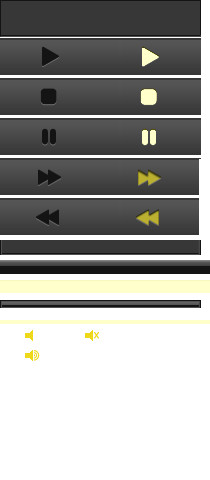
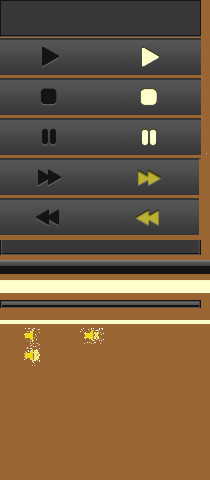
Attempt to make better for mobile

diff --git a/internal/assets/views/podquiz.css b/internal/assets/views/podquiz.css
@@ -82,34 +82,36 @@ $brownbox()
     color: $red
     text-decoration: none
 
-section.social
-  height: 3em
-  div
-    float: left
-    height: 25px
-  .facebook
-    width: 90px
-  .plusone
-    width: 120px
+.comdate
+  padding-right: 1em
+
+@media screen and (min-device-width: 400px)
   .comdate
-    padding-right: 1em
     font-size: 80%
 
 article.quiz
   clear: both
   padding-bottom: 1em
-  section.player
-    $brownbox()
-    width: 226px
-    float: right
-    text-align: center
-    padding-left: 4px
-    margin-left: 1em
-    margin-right: 4px
   p.description
     br
       display: block
       margin-bottom: 0.5em
+
+.player
+  $brownbox()
+  width: 226px
+  float: none
+  zoom: 3
+  text-align: center
+  padding-left: 4px
+  margin-left: 1em
+  margin-right: 4px
+
+@media screen and (min-device-width: 400px)
+  .player
+    float: right
+    zoom: 1
+
 
 section.comments
   clear: both
@@ -177,12 +179,13 @@ footer
 
 body
   margin: 0
-  padding: 0 0 0 $body_width
+
 .sidebar
-  position: absolute
+  position: fixed
   top: 0
   left: $page_pad
-  width: $sidebar_width
+  display: none
+  width: 0
   height: 100%
   text-align: center
   a:link, a:visited, a:hover
@@ -191,9 +194,9 @@ body
     padding-top: 10px
     padding-bottom: 10px
     .hpodquiz
-      font-size: 150%
+      font-size: 1.5rem
     .htagline
-      font-size: 105%
+      font-size: 1.05rem
   section.box
     $brownbox()
     font-weight: bolder
@@ -201,6 +204,19 @@ body
     margin-bottom: 5px
     padding-top: 3px
     padding-bottom: 3px
+
+.closemenu:
+  font-size: 4rem
+  font-weight: bolder
+  float: left
+
+@media screen and (min-device-width: 400px)
+  .sidebar
+    width: $sidebar_width
+    display: block
+  .closemenu
+    display: none
+
 @media screen
   body > nav.sidebar
     position:fixed
@@ -216,7 +232,17 @@ a.skip-nav-link:focus
   transform: translateY(0)
 
 .content
+  padding-left: $page_pad
   padding-right: $page_pad
+
+@media screen and (min-device-width: 400px)
+  .content
+    padding-left: $body_width
+  .menubutton
+    display: none
+
+.menubutton
+  float:left
 
 span.quizlink
   float: left

diff --git a/internal/assets/views/index.html b/internal/assets/views/index.html
@@ -14,12 +14,10 @@ the <a href='answersheet.pdf'>PodQuiz answer sheet</a> useful.</p>
   <h2>{{.Name}}</h2>
   {{template "player" .}}
   <p class='description'>{{.DescriptionHTML}}</p>
-  <section class='social'>
-    <div class='comdate'>
-      <a href='/quiz.html?q={{.Number}}'>Comment on this quiz ({{.CommentCount}})</a>
-      <br>
-      {{indexTime .Released}}
-    </div>
+  <section class='comdate'>
+    <a href='/quiz.html?q={{.Number}}'>Comment on this quiz ({{.CommentCount}})</a>
+    <br>
+    {{indexTime .Released}}
   </section>
 </article>
 {{end}}
